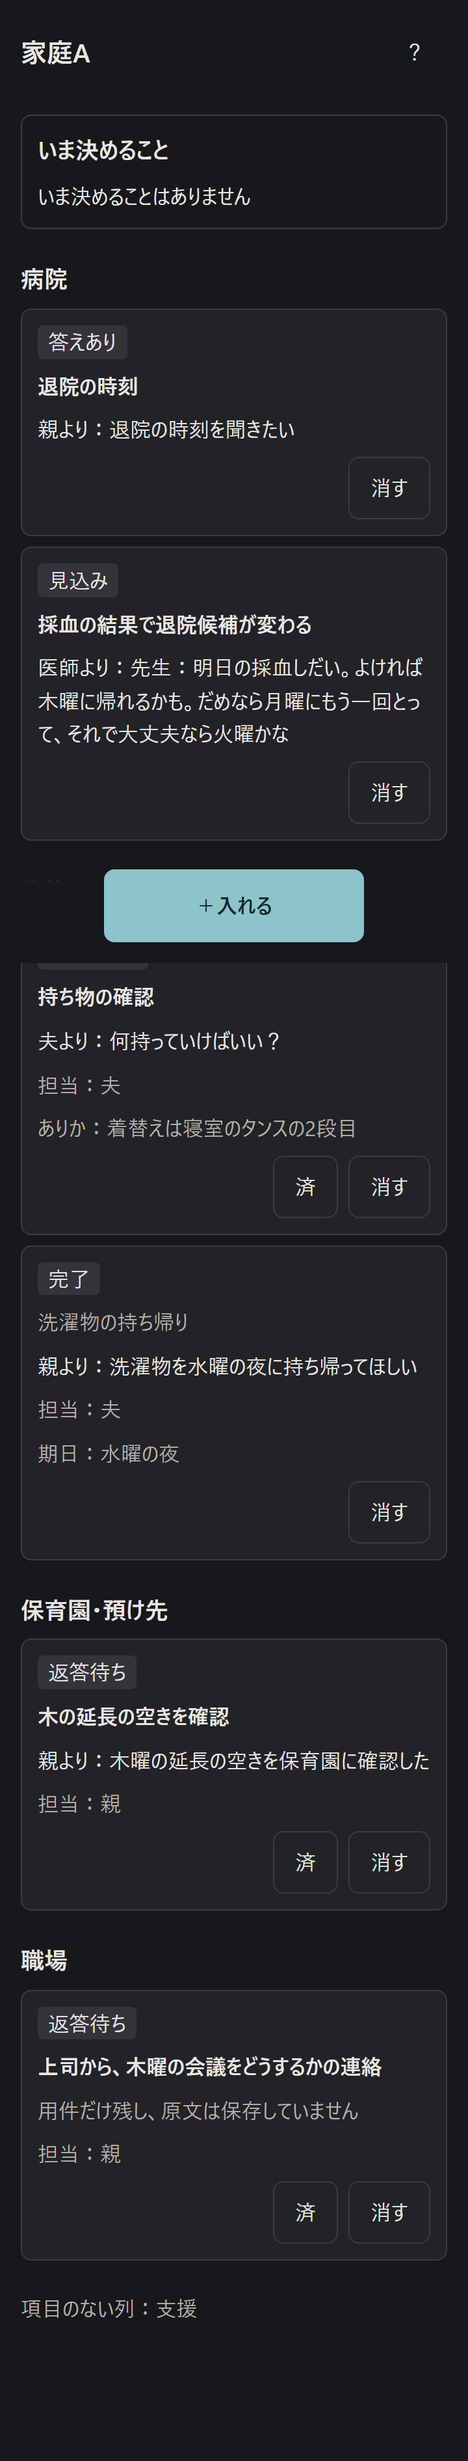
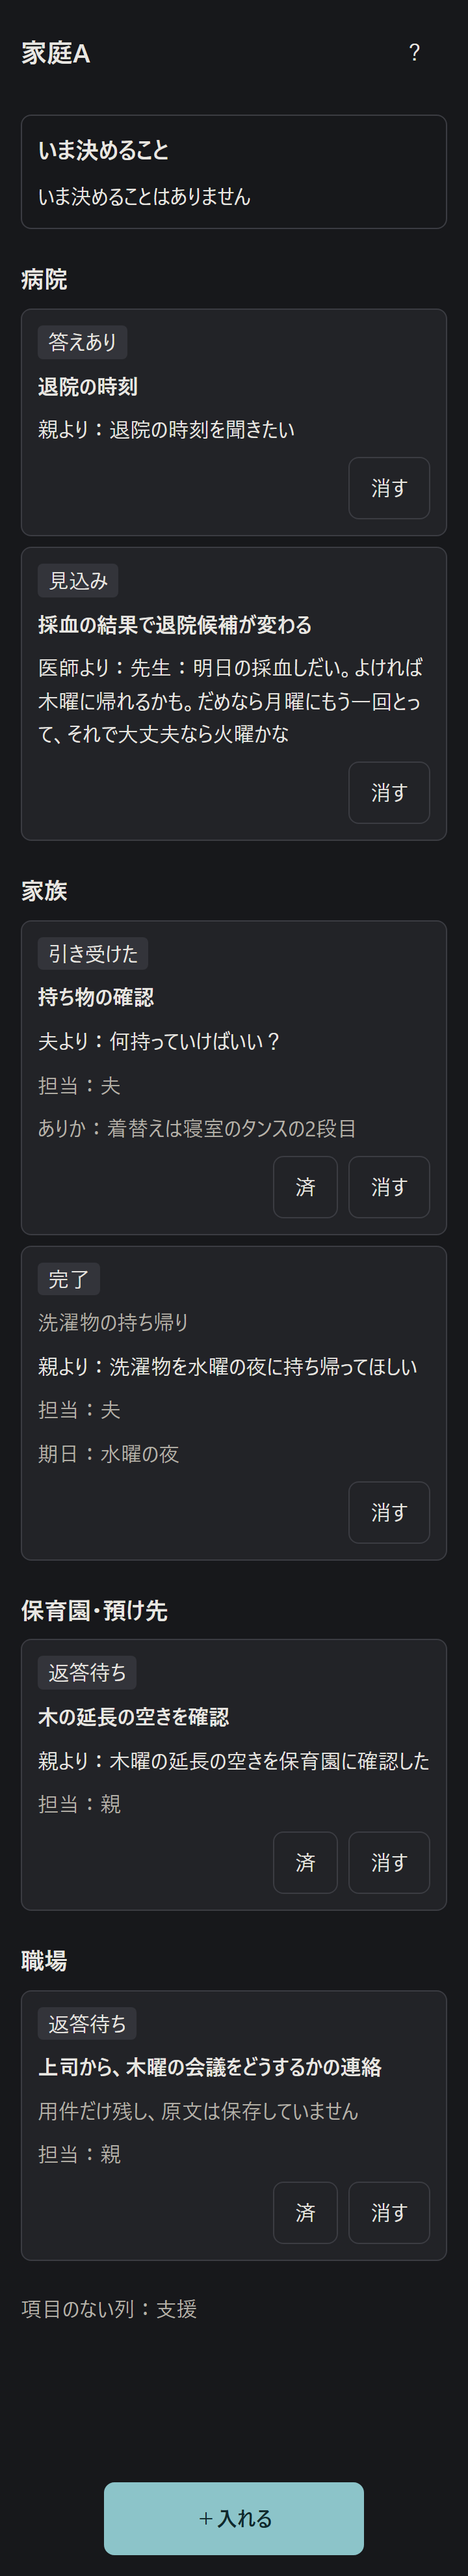
fix: 通信が無くても入れた文を隠さない（読めていないときに「ありません」と出さない）
Claude-Session: https://claude.ai/code/session_01Y4hDvBmsYjvv5jssj4odBr

diff --git a/frontend/src/Board.tsx b/frontend/src/Board.tsx
@@ -109,16 +109,6 @@ export function BoardScreen({
       </main>
     )
   }
-  if (loadState === 'offline') {
-    return (
-      <main className="centered">
-        <p>{WORDS.board.offline}</p>
-        <button type="button" className="primary" data-primary onClick={() => void load()}>
-          {WORDS.board.retry}
-        </button>
-      </main>
-    )
-  }
 
   const items = board?.items ?? []
   const events = items.filter((item) => item.kind === '予定')
@@ -159,6 +149,18 @@ export function BoardScreen({
           </p>
         )}
 
+        {/* 読み込めなくても画面を差し替えない。入れた文と［＋入れる］は電波が無くても使える。 */}
+        {loadState === 'offline' && (
+          <div className="message-block">
+            <p className="message" role="alert">
+              {WORDS.board.offline}
+            </p>
+            <button type="button" onClick={() => void load()}>
+              {WORDS.board.retry}
+            </button>
+          </div>
+        )}
+
         {pending.length > 0 && (
           <section aria-label={WORDS.board.sorting}>
             {pending.map((entry) => (
@@ -173,10 +175,13 @@ export function BoardScreen({
           </section>
         )}
 
-        <section className="decide">
-          <h2>{WORDS.board.decide}</h2>
-          <p>{WORDS.board.decideNone}</p>
-        </section>
+        {/* 読み込めていないのに「ありません」とは言わない。 */}
+        {loadState === 'ready' && (
+          <section className="decide">
+            <h2>{WORDS.board.decide}</h2>
+            <p>{WORDS.board.decideNone}</p>
+          </section>
+        )}
 
         {loadState === 'loading' && <p role="status">{WORDS.board.loading}</p>}
 

diff --git a/frontend/src/index.css b/frontend/src/index.css
@@ -226,6 +226,11 @@ button.armed {
   color: var(--mark-fg);
 }
 
+.message-block {
+  display: grid;
+  gap: 8px;
+}
+
 .card {
   display: grid;
   gap: 8px;

diff --git a/scripts/check_screens.py b/scripts/check_screens.py
@@ -98,7 +98,7 @@ def inspect(page: Page, name: str, out: Path, report: Report) -> None:
     page.screenshot(
         path=str(out / f"{name}.png"),
         full_page=True,
-        style=".dock { position: absolute !important; }",
+        style=".dock { position: static !important; }",
     )
     data = page.evaluate(MEASURE)
     report.check(data["scrollW"] <= data["clientW"], f"{name}: 横スクロールがある")
@@ -212,8 +212,22 @@ def walk_through(page: Page, out: Path, report: Report) -> str:
     page.get_by_role("textbox").fill("先生：明日の採血しだい。よければ木曜に帰れるかも。")
     inspect(page, "6-add-filled", out, report)
     page.get_by_role("button", name="入れる", exact=True).click()
-    page.context.set_offline(False)
+    # 通信が止まったままでも、入れた文と［＋入れる］は見える。読み込めていないことも正直に出す。
     page.get_by_text("仕分け中").first.wait_for()
+    page.get_by_text("読み込めませんでした").wait_for()
+    offline_text = page.locator("body").inner_text()
+    report.check("よければ木曜に帰れるかも" in offline_text, "通信なしで入れた文が見えない")
+    report.check(
+        "いま決めることはありません" not in offline_text, "読めていないのに無いと言っている"
+    )
+    report.check(page.get_by_role("button", name="＋入れる").count() == 1, "通信なしで入れられない")
+    inspect(page, "6a-board-offline", out, report)
+    page.context.set_offline(False)
+    page.get_by_role("button", name="もう一度読み込む").click()
+    page.get_by_role("heading", name="職場").wait_for()
+    report.check(
+        "読み込めませんでした" not in page.locator("body").inner_text(), "戻っても消えない"
+    )
     page.reload(wait_until="networkidle")
     report.check("仕分け中" in page.locator("body").inner_text(), "入れた文が開き直すと消える")
     report.check(
@@ -314,7 +328,7 @@ def main() -> int:
         )
 
     report = Report()
-    with tempfile.TemporaryDirectory() as tmp:
+    with tempfile.TemporaryDirectory(ignore_cleanup_errors=True) as tmp:
         log_path = Path(tmp) / "server.log"
         env = {**os.environ, "DATABASE_URL": f"sqlite:///{(Path(tmp) / 'check.db').as_posix()}"}
         with log_path.open("w", encoding="utf-8") as log:

diff --git a/docs/devlog/2026-11-02.md b/docs/devlog/2026-11-02.md
@@ -57,6 +57,9 @@ N3とN4は画面が互いに要るので、1つのコミットにした。
 ### 試行錯誤
 - 全体の写真に、下に固定したボタンが途中で写り込んだ。画面の不具合ではないので、写真の間だけ位置を変えた。
 - `maxLength` を使うと貼った文が黙って切れるので、やめた。
+- 検査を続けて回すと、たまに止まった。原因は検査ではなく画面の不具合だった。通信が無いと画面全体が「読み込めませんでした」に置き換わり、入れた文が見えなくなる。検査は通信を戻す早さの差で、たまたま通っていた。画面を差し替えないように直し、通信を止めたまま確かめる検査に変えた。直した後は6回続けて合格。
+- 読み込めていないのに「いま決めることはありません」と出ていたので、読めたときだけ出すようにした。
+- 検査がちゃんと落とすかを、CSSをわざと壊して確かめた（ボタンを低く、文字を小さく）。
 
 ### APIの費用
 $0（本物のAPIは呼んでいない）
